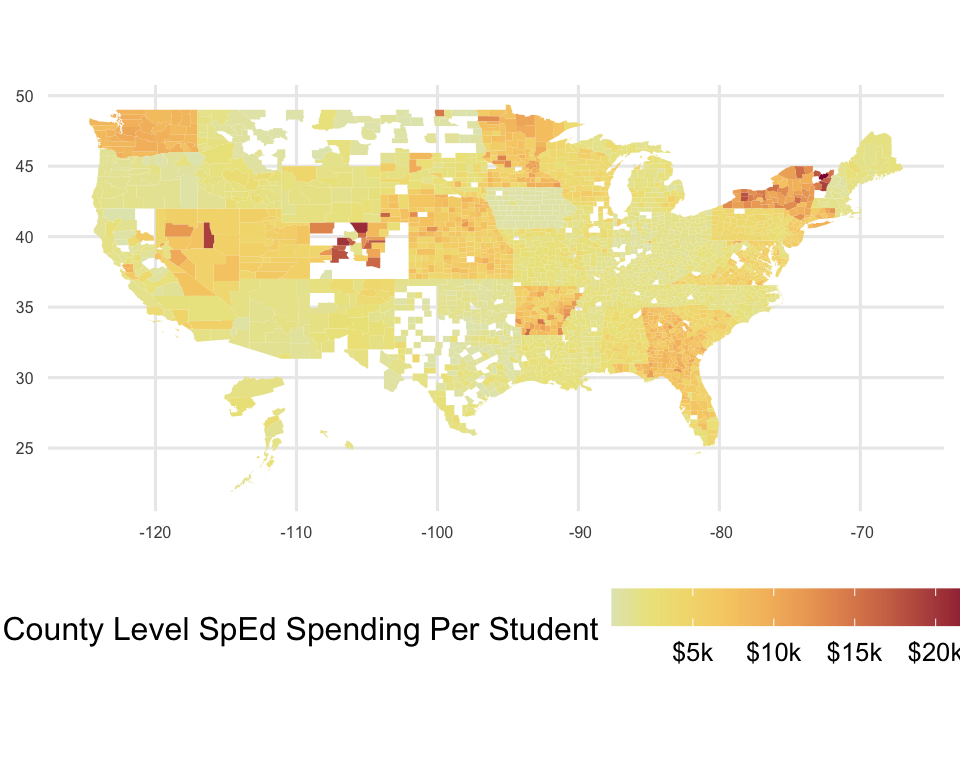
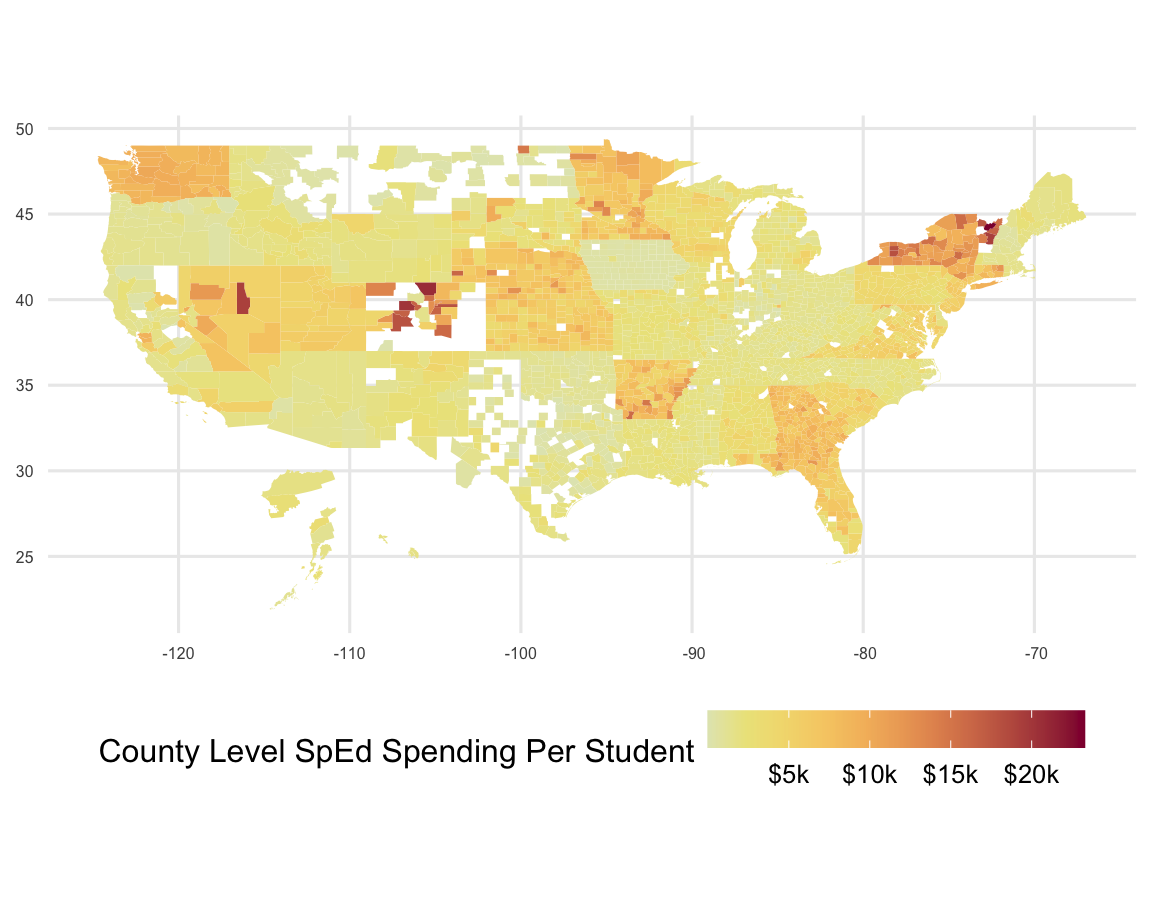
Plot size updates

diff --git a/docs/index.html b/docs/index.html
@@ -9,9 +9,9 @@
 
 
 
-<title>proposal_explorations</title>
+<title>Final Project</title>
 
-<meta property="og:title" content="proposal_explorations" />
+<meta property="og:title" content="Final Project" />
 
 <meta name='viewport' content='width=device-width, initial-scale=1.0, maximum-scale=1.0, user-scalable=no' />
 
@@ -811,9 +811,9 @@ body {
   
 </span>
 <span class="navbar-brand">
-  proposal_explorations
+  Final Project
   <span class="navbar-author">
-    Ian, Dillon, Futing &mdash; 1/19/2022
+    Ian, Dillon, Futing &mdash; 3/8/2022
     </span>
 </span>
 
@@ -2658,17 +2658,17 @@ color:white!important;
 <p>Visualization 1</p>
 <div id="old-nationwide" class="section level3">
 <h3>Old Nationwide</h3>
-<div class="knitr-options" data-fig-width="480" data-fig-height="384">
+<div class="knitr-options" data-fig-width="576" data-fig-height="460">
 
 </div>
-<p><img src="index_files/figure-html/unnamed-chunk-10-1.png" width="480" data-figure-id=fig15 /><img src="index_files/figure-html/unnamed-chunk-10-2.png" width="360" data-figure-id=fig15 /> <br> Initially, I wanted to provide more granular data about SpEd populations and spending. However, it appeared that there was a wide variation of state reporting quality.</p>
+<p><img src="index_files/figure-html/unnamed-chunk-10-1.png" width="576" data-figure-id=fig15 /><img src="index_files/figure-html/unnamed-chunk-10-2.png" width="360" data-figure-id=fig15 /> <br> Initially, I wanted to provide more granular data about SpEd populations and spending. However, it appeared that there was a wide variation of state reporting quality.</p>
 </div>
 <div id="old-oregon" class="section level3">
 <h3>Old Oregon</h3>
-<div class="knitr-options" data-fig-width="480" data-fig-height="384">
+<div class="knitr-options" data-fig-width="576" data-fig-height="460">
 
 </div>
-<p><img src="index_files/figure-html/unnamed-chunk-11-1.png" width="480" data-figure-id=fig17 /><img src="index_files/figure-html/unnamed-chunk-11-2.png" width="360" data-figure-id=fig17 /> <br> I decided to hone in on Oregon and created a series of plots that didn’t quite capture what I was hoping to.</p>
+<p><img src="index_files/figure-html/unnamed-chunk-11-1.png" width="576" data-figure-id=fig17 /><img src="index_files/figure-html/unnamed-chunk-11-2.png" width="360" data-figure-id=fig17 /> <br> I decided to hone in on Oregon and created a series of plots that didn’t quite capture what I was hoping to.</p>
 </div>
 <div id="final" class="section level3">
 <h3>Final</h3>
@@ -2696,8 +2696,8 @@ color:white!important;
 <div class="knitr-options" data-fig-width="480" data-fig-height="384">
 
 </div>
-<div id="htmlwidget-c86473a5e5a716dd93f9" style="width:480px;height:384px;" class="plotly html-widget"></div>
-<script type="application/json" data-for="htmlwidget-c86473a5e5a716dd93f9">{"x":{"visdat":{"859b78056607":["function () ","plotlyVisDat"]},"cur_data":"859b78056607","attrs":{"859b78056607":{"locationmode":"USA-states","alpha_stroke":1,"sizes":[10,100],"spans":[1,20],"z":{},"text":{},"locations":{},"color":{},"colors":"Purples","inherit":true}},"layout":{"margin":{"b":40,"l":60,"t":25,"r":10},"mapType":"geo","scene":{"zaxis":{"title":"Rate"}},"geo":{"domain":{"x":[0,1],"y":[0,1]},"scope":"usa","projection":{"type":"albers usa"},"showlakes":true,"lakecolor":"rgba(255,255,255,1)"},"hovermode":"closest","showlegend":false,"legend":{"yanchor":"top","y":0.5},"title":{"text":"<b> Students with Disability Rates <b>"},"y":0.5},"source":"A","config":{"modeBarButtonsToAdd":["hoverclosest","hovercompare"],"showSendToCloud":false},"data":[{"colorbar":{"title":"Percent of Students with Disabilities","ticklen":2,"len":0.5,"lenmode":"fraction","y":0.75,"yanchor":"top"},"colorscale":[["0","rgba(252,251,253,1)"],["0.0416666666666667","rgba(248,246,250,1)"],["0.0833333333333334","rgba(243,242,248,1)"],["0.125","rgba(239,237,245,1)"],["0.166666666666667","rgba(232,231,242,1)"],["0.208333333333333","rgba(225,224,238,1)"],["0.25","rgba(218,218,235,1)"],["0.291666666666667","rgba(208,208,230,1)"],["0.333333333333333","rgba(198,199,225,1)"],["0.375","rgba(188,189,220,1)"],["0.416666666666667","rgba(178,177,213,1)"],["0.458333333333333","rgba(168,166,207,1)"],["0.5","rgba(158,154,200,1)"],["0.541666666666667","rgba(148,144,195,1)"],["0.583333333333333","rgba(138,135,191,1)"],["0.625","rgba(128,125,186,1)"],["0.666666666666667","rgba(121,110,178,1)"],["0.708333333333333","rgba(114,96,171,1)"],["0.75","rgba(106,81,163,1)"],["0.791666666666667","rgba(99,67,156,1)"],["0.833333333333333","rgba(92,54,150,1)"],["0.875","rgba(84,39,143,1)"],["0.916666666666667","rgba(77,28,137,1)"],["0.958333333333333","rgba(70,16,131,1)"],["1","rgba(63,0,125,1)"]],"showscale":true,"locationmode":"USA-states","z":[0.0683467401698824,0.107890689695966,0.0955430286964437,0.111665491621021,0.112737006468882,0.0909209911173446,0.122667797431548,0.144320612405719,0.12778057273633,0.106739262744066,0.155391878566947,0.132068218354652,0.15730580031353,0.136615898184853,0.0884583419904425,0.186798679867987,0.0986055187115111,0.200300386667945,0.116532968108002,0.128692187167534,0.105533919899995,0.13927268707859,0.131055726687202,0.119734585849549,0.103083832335329,0.186343379409321,0.157486984313415,0.134612901837587,0.146575779729605,0.098774826877711,0.115172120696983,0.157687527961426,0.132118235905185,0.143080575652898,0.213055303717135,0.0933399209486166,0.0886075949367089,0.126336803079994,0.0970854753855694,0.0915190552871712,0.170818505338078,0.117722922129138,0.107981011719329,0.159324665243547,0.133311938382542,0.139245839477565],"text":["Alabama","Alaska","Arizona","Arkansas","California","Colorado","Connecticut","Delaware","Florida","Georgia","Illinois","Indiana","Iowa","Kansas","Louisiana","Maine","Maryland","Massachusetts","Michigan","Minnesota","Mississippi","Missouri","Montana","Nebraska","Nevada","New Hampshire","New Jersey","New Mexico","New York","North Carolina","North Dakota","Ohio","Oregon","Pennsylvania","Rhode Island","South Carolina","South Dakota","Tennessee","Texas","Utah","Vermont","Virginia","Washington","West Virginia","Wisconsin","Wyoming"],"locations":["AL","AK","AZ","AR","CA","CO","CT","DE","FL","GA","IL","IN","IA","KS","LA","ME","MD","MA","MI","MN","MS","MO","MT","NE","NV","NH","NJ","NM","NY","NC","ND","OH","OR","PA","RI","SC","SD","TN","TX","UT","VT","VA","WA","WV","WI","WY"],"type":"choropleth","marker":{"line":{"colorbar":{"title":"","ticklen":2},"cmin":0.0683467401698824,"cmax":0.213055303717135,"colorscale":[["0","rgba(252,251,253,1)"],["0.0416666666666667","rgba(248,246,250,1)"],["0.0833333333333334","rgba(243,242,248,1)"],["0.125","rgba(239,237,245,1)"],["0.166666666666667","rgba(232,231,242,1)"],["0.208333333333333","rgba(225,224,238,1)"],["0.25","rgba(218,218,235,1)"],["0.291666666666667","rgba(208,208,230,1)"],["0.333333333333333","rgba(198,199,225,1)"],["0.375","rgba(188,189,220,1)"],["0.416666666666667","rgba(178,177,213,1)"],["0.458333333333333","rgba(168,166,207,1)"],["0.5","rgba(158,154,200,1)"],["0.541666666666667","rgba(148,144,195,1)"],["0.583333333333333","rgba(138,135,191,1)"],["0.625","rgba(128,125,186,1)"],["0.666666666666667","rgba(121,110,178,1)"],["0.708333333333333","rgba(114,96,171,1)"],["0.75","rgba(106,81,163,1)"],["0.791666666666667","rgba(99,67,156,1)"],["0.833333333333333","rgba(92,54,150,1)"],["0.875","rgba(84,39,143,1)"],["0.916666666666667","rgba(77,28,137,1)"],["0.958333333333333","rgba(70,16,131,1)"],["1","rgba(63,0,125,1)"]],"showscale":false,"color":[0.0683467401698824,0.107890689695966,0.0955430286964437,0.111665491621021,0.112737006468882,0.0909209911173446,0.122667797431548,0.144320612405719,0.12778057273633,0.106739262744066,0.155391878566947,0.132068218354652,0.15730580031353,0.136615898184853,0.0884583419904425,0.186798679867987,0.0986055187115111,0.200300386667945,0.116532968108002,0.128692187167534,0.105533919899995,0.13927268707859,0.131055726687202,0.119734585849549,0.103083832335329,0.186343379409321,0.157486984313415,0.134612901837587,0.146575779729605,0.098774826877711,0.115172120696983,0.157687527961426,0.132118235905185,0.143080575652898,0.213055303717135,0.0933399209486166,0.0886075949367089,0.126336803079994,0.0970854753855694,0.0915190552871712,0.170818505338078,0.117722922129138,0.107981011719329,0.159324665243547,0.133311938382542,0.139245839477565]}},"geo":"geo","frame":null}],"highlight":{"on":"plotly_click","persistent":false,"dynamic":false,"selectize":false,"opacityDim":0.2,"selected":{"opacity":1},"debounce":0},"shinyEvents":["plotly_hover","plotly_click","plotly_selected","plotly_relayout","plotly_brushed","plotly_brushing","plotly_clickannotation","plotly_doubleclick","plotly_deselect","plotly_afterplot","plotly_sunburstclick"],"base_url":"https://plot.ly"},"evals":[],"jsHooks":[]}</script>
+<div id="htmlwidget-7f3ea2eb60dc3bca808c" style="width:480px;height:384px;" class="plotly html-widget"></div>
+<script type="application/json" data-for="htmlwidget-7f3ea2eb60dc3bca808c">{"x":{"visdat":{"a5b2de856c8":["function () ","plotlyVisDat"]},"cur_data":"a5b2de856c8","attrs":{"a5b2de856c8":{"locationmode":"USA-states","alpha_stroke":1,"sizes":[10,100],"spans":[1,20],"z":{},"text":{},"locations":{},"color":{},"colors":"Purples","inherit":true}},"layout":{"margin":{"b":40,"l":60,"t":25,"r":10},"mapType":"geo","scene":{"zaxis":{"title":"Rate"}},"geo":{"domain":{"x":[0,1],"y":[0,1]},"scope":"usa","projection":{"type":"albers usa"},"showlakes":true,"lakecolor":"rgba(255,255,255,1)"},"hovermode":"closest","showlegend":false,"legend":{"yanchor":"top","y":0.5},"title":{"text":"<b> Students with Disability Rates <b>"},"y":0.5},"source":"A","config":{"modeBarButtonsToAdd":["hoverclosest","hovercompare"],"showSendToCloud":false},"data":[{"colorbar":{"title":"Percent of Students with Disabilities","ticklen":2,"len":0.5,"lenmode":"fraction","y":0.75,"yanchor":"top"},"colorscale":[["0","rgba(252,251,253,1)"],["0.0416666666666667","rgba(248,246,250,1)"],["0.0833333333333334","rgba(243,242,248,1)"],["0.125","rgba(239,237,245,1)"],["0.166666666666667","rgba(232,231,242,1)"],["0.208333333333333","rgba(225,224,238,1)"],["0.25","rgba(218,218,235,1)"],["0.291666666666667","rgba(208,208,230,1)"],["0.333333333333333","rgba(198,199,225,1)"],["0.375","rgba(188,189,220,1)"],["0.416666666666667","rgba(178,177,213,1)"],["0.458333333333333","rgba(168,166,207,1)"],["0.5","rgba(158,154,200,1)"],["0.541666666666667","rgba(148,144,195,1)"],["0.583333333333333","rgba(138,135,191,1)"],["0.625","rgba(128,125,186,1)"],["0.666666666666667","rgba(121,110,178,1)"],["0.708333333333333","rgba(114,96,171,1)"],["0.75","rgba(106,81,163,1)"],["0.791666666666667","rgba(99,67,156,1)"],["0.833333333333333","rgba(92,54,150,1)"],["0.875","rgba(84,39,143,1)"],["0.916666666666667","rgba(77,28,137,1)"],["0.958333333333333","rgba(70,16,131,1)"],["1","rgba(63,0,125,1)"]],"showscale":true,"locationmode":"USA-states","z":[0.0683467401698824,0.107890689695966,0.0955430286964437,0.111665491621021,0.112737006468882,0.0909209911173446,0.122667797431548,0.144320612405719,0.12778057273633,0.106739262744066,0.155391878566947,0.132068218354652,0.15730580031353,0.136615898184853,0.0884583419904425,0.186798679867987,0.0986055187115111,0.200300386667945,0.116532968108002,0.128692187167534,0.105533919899995,0.13927268707859,0.131055726687202,0.119734585849549,0.103083832335329,0.186343379409321,0.157486984313415,0.134612901837587,0.146575779729605,0.098774826877711,0.115172120696983,0.157687527961426,0.132118235905185,0.143080575652898,0.213055303717135,0.0933399209486166,0.0886075949367089,0.126336803079994,0.0970854753855694,0.0915190552871712,0.170818505338078,0.117722922129138,0.107981011719329,0.159324665243547,0.133311938382542,0.139245839477565],"text":["Alabama","Alaska","Arizona","Arkansas","California","Colorado","Connecticut","Delaware","Florida","Georgia","Illinois","Indiana","Iowa","Kansas","Louisiana","Maine","Maryland","Massachusetts","Michigan","Minnesota","Mississippi","Missouri","Montana","Nebraska","Nevada","New Hampshire","New Jersey","New Mexico","New York","North Carolina","North Dakota","Ohio","Oregon","Pennsylvania","Rhode Island","South Carolina","South Dakota","Tennessee","Texas","Utah","Vermont","Virginia","Washington","West Virginia","Wisconsin","Wyoming"],"locations":["AL","AK","AZ","AR","CA","CO","CT","DE","FL","GA","IL","IN","IA","KS","LA","ME","MD","MA","MI","MN","MS","MO","MT","NE","NV","NH","NJ","NM","NY","NC","ND","OH","OR","PA","RI","SC","SD","TN","TX","UT","VT","VA","WA","WV","WI","WY"],"type":"choropleth","marker":{"line":{"colorbar":{"title":"","ticklen":2},"cmin":0.0683467401698824,"cmax":0.213055303717135,"colorscale":[["0","rgba(252,251,253,1)"],["0.0416666666666667","rgba(248,246,250,1)"],["0.0833333333333334","rgba(243,242,248,1)"],["0.125","rgba(239,237,245,1)"],["0.166666666666667","rgba(232,231,242,1)"],["0.208333333333333","rgba(225,224,238,1)"],["0.25","rgba(218,218,235,1)"],["0.291666666666667","rgba(208,208,230,1)"],["0.333333333333333","rgba(198,199,225,1)"],["0.375","rgba(188,189,220,1)"],["0.416666666666667","rgba(178,177,213,1)"],["0.458333333333333","rgba(168,166,207,1)"],["0.5","rgba(158,154,200,1)"],["0.541666666666667","rgba(148,144,195,1)"],["0.583333333333333","rgba(138,135,191,1)"],["0.625","rgba(128,125,186,1)"],["0.666666666666667","rgba(121,110,178,1)"],["0.708333333333333","rgba(114,96,171,1)"],["0.75","rgba(106,81,163,1)"],["0.791666666666667","rgba(99,67,156,1)"],["0.833333333333333","rgba(92,54,150,1)"],["0.875","rgba(84,39,143,1)"],["0.916666666666667","rgba(77,28,137,1)"],["0.958333333333333","rgba(70,16,131,1)"],["1","rgba(63,0,125,1)"]],"showscale":false,"color":[0.0683467401698824,0.107890689695966,0.0955430286964437,0.111665491621021,0.112737006468882,0.0909209911173446,0.122667797431548,0.144320612405719,0.12778057273633,0.106739262744066,0.155391878566947,0.132068218354652,0.15730580031353,0.136615898184853,0.0884583419904425,0.186798679867987,0.0986055187115111,0.200300386667945,0.116532968108002,0.128692187167534,0.105533919899995,0.13927268707859,0.131055726687202,0.119734585849549,0.103083832335329,0.186343379409321,0.157486984313415,0.134612901837587,0.146575779729605,0.098774826877711,0.115172120696983,0.157687527961426,0.132118235905185,0.143080575652898,0.213055303717135,0.0933399209486166,0.0886075949367089,0.126336803079994,0.0970854753855694,0.0915190552871712,0.170818505338078,0.117722922129138,0.107981011719329,0.159324665243547,0.133311938382542,0.139245839477565]}},"geo":"geo","frame":null}],"highlight":{"on":"plotly_click","persistent":false,"dynamic":false,"selectize":false,"opacityDim":0.2,"selected":{"opacity":1},"debounce":0},"shinyEvents":["plotly_hover","plotly_click","plotly_selected","plotly_relayout","plotly_brushed","plotly_brushing","plotly_clickannotation","plotly_doubleclick","plotly_deselect","plotly_afterplot","plotly_sunburstclick"],"base_url":"https://plot.ly"},"evals":[],"jsHooks":[]}</script>
 <p><br> I decided to use interactive maps to visualize those data, so I can at least also get the name of each state and the exact value in this heatmap for each state.</p>
 </div>
 </div>
@@ -2716,8 +2716,8 @@ color:white!important;
 <div class="knitr-options" data-fig-width="480" data-fig-height="384">
 
 </div>
-<div id="htmlwidget-173ecfb415a5f5833c1f" style="width:480px;height:384px;" class="plotly html-widget"></div>
-<script type="application/json" data-for="htmlwidget-173ecfb415a5f5833c1f">{"x":{"visdat":{"859b2a6d9320":["function () ","plotlyVisDat"]},"cur_data":"859b2a6d9320","attrs":{"859b2a6d9320":{"locationmode":"USA-states","alpha_stroke":1,"sizes":[10,100],"spans":[1,20],"z":{},"text":{},"locations":{},"color":{},"colors":"Purples","inherit":true}},"layout":{"margin":{"b":40,"l":60,"t":25,"r":10},"mapType":"geo","scene":{"zaxis":{"title":"Revenue"}},"geo":{"domain":{"x":[0,1],"y":[0,1]},"scope":"usa","projection":{"type":"albers usa"},"showlakes":true,"lakecolor":"rgba(255,255,255,1)"},"hovermode":"closest","showlegend":false,"legend":{"yanchor":"top","y":0.5},"title":{"text":"<b> SpEd Revenue per Student <b>"},"y":0.5},"source":"A","config":{"modeBarButtonsToAdd":["hoverclosest","hovercompare"],"showSendToCloud":false},"data":[{"colorbar":{"title":"Avg Special Ed Revenue per Student","ticklen":2,"len":0.5,"lenmode":"fraction","y":0.75,"yanchor":"top","orientation":"h"},"colorscale":[["0","rgba(252,251,253,1)"],["0.0416666666666667","rgba(248,246,250,1)"],["0.0833333333333333","rgba(243,242,248,1)"],["0.125","rgba(239,237,245,1)"],["0.166666666666667","rgba(232,231,242,1)"],["0.208333333333333","rgba(225,224,238,1)"],["0.25","rgba(218,218,235,1)"],["0.291666666666667","rgba(208,208,230,1)"],["0.333333333333333","rgba(198,199,225,1)"],["0.375","rgba(188,189,220,1)"],["0.416666666666667","rgba(178,177,213,1)"],["0.458333333333333","rgba(168,166,207,1)"],["0.5","rgba(158,154,200,1)"],["0.541666666666667","rgba(148,144,195,1)"],["0.583333333333333","rgba(138,135,191,1)"],["0.625","rgba(128,125,186,1)"],["0.666666666666667","rgba(121,110,178,1)"],["0.708333333333333","rgba(114,96,171,1)"],["0.75","rgba(106,81,163,1)"],["0.791666666666667","rgba(99,67,156,1)"],["0.833333333333333","rgba(92,54,150,1)"],["0.875","rgba(84,39,143,1)"],["0.916666666666667","rgba(77,28,137,1)"],["0.958333333333333","rgba(70,16,131,1)"],["1","rgba(63,0,125,1)"]],"showscale":true,"locationmode":"USA-states","z":[41067.9012345679,29996.7105263158,17241.8519137556,104110.247693055,53424.0723137484,55953.7227478404,125348.640987654,27153.6661466459,75394.5264214305,113334.412081985,28136.1888279973,21742.2598571051,7950.17182130584,85251.3744654856,42319.4351145038,18176.1736496719,87311.064404744,16760.4499042757,41876.006212223,156583.345859011,30372.2095671982,37109.9201058201,1762.82051282051,110527.397260274,65180.9468486785,9578.43372517227,66043.8861240588,27466.1125319693,84020.2272567615,30901.7719568567,37907.7490774908,16731.9208120547,16406.3609721229,52464.9260773828,14958.2961702128,83273.1314842261,162382.059800664,24513.967268623,27823.2989656735,110259.530791789,81302.0833333333,67604.2549569941,167336.5846957,22181.790499391,60374.5787193067,24118.0030257186],"text":["Alabama","Alaska","Arizona","Arkansas","California","Colorado","Connecticut","Delaware","Florida","Georgia","Illinois","Indiana","Iowa","Kansas","Louisiana","Maine","Maryland","Massachusetts","Michigan","Minnesota","Mississippi","Missouri","Montana","Nebraska","Nevada","New Hampshire","New Jersey","New Mexico","New York","North Carolina","North Dakota","Ohio","Oregon","Pennsylvania","Rhode Island","South Carolina","South Dakota","Tennessee","Texas","Utah","Vermont","Virginia","Washington","West Virginia","Wisconsin","Wyoming"],"locations":["AL","AK","AZ","AR","CA","CO","CT","DE","FL","GA","IL","IN","IA","KS","LA","ME","MD","MA","MI","MN","MS","MO","MT","NE","NV","NH","NJ","NM","NY","NC","ND","OH","OR","PA","RI","SC","SD","TN","TX","UT","VT","VA","WA","WV","WI","WY"],"type":"choropleth","marker":{"line":{"colorbar":{"title":"","ticklen":2},"cmin":1762.82051282051,"cmax":167336.5846957,"colorscale":[["0","rgba(252,251,253,1)"],["0.0416666666666667","rgba(248,246,250,1)"],["0.0833333333333333","rgba(243,242,248,1)"],["0.125","rgba(239,237,245,1)"],["0.166666666666667","rgba(232,231,242,1)"],["0.208333333333333","rgba(225,224,238,1)"],["0.25","rgba(218,218,235,1)"],["0.291666666666667","rgba(208,208,230,1)"],["0.333333333333333","rgba(198,199,225,1)"],["0.375","rgba(188,189,220,1)"],["0.416666666666667","rgba(178,177,213,1)"],["0.458333333333333","rgba(168,166,207,1)"],["0.5","rgba(158,154,200,1)"],["0.541666666666667","rgba(148,144,195,1)"],["0.583333333333333","rgba(138,135,191,1)"],["0.625","rgba(128,125,186,1)"],["0.666666666666667","rgba(121,110,178,1)"],["0.708333333333333","rgba(114,96,171,1)"],["0.75","rgba(106,81,163,1)"],["0.791666666666667","rgba(99,67,156,1)"],["0.833333333333333","rgba(92,54,150,1)"],["0.875","rgba(84,39,143,1)"],["0.916666666666667","rgba(77,28,137,1)"],["0.958333333333333","rgba(70,16,131,1)"],["1","rgba(63,0,125,1)"]],"showscale":false,"color":[41067.9012345679,29996.7105263158,17241.8519137556,104110.247693055,53424.0723137484,55953.7227478404,125348.640987654,27153.6661466459,75394.5264214305,113334.412081985,28136.1888279973,21742.2598571051,7950.17182130584,85251.3744654856,42319.4351145038,18176.1736496719,87311.064404744,16760.4499042757,41876.006212223,156583.345859011,30372.2095671982,37109.9201058201,1762.82051282051,110527.397260274,65180.9468486785,9578.43372517227,66043.8861240588,27466.1125319693,84020.2272567615,30901.7719568567,37907.7490774908,16731.9208120547,16406.3609721229,52464.9260773828,14958.2961702128,83273.1314842261,162382.059800664,24513.967268623,27823.2989656735,110259.530791789,81302.0833333333,67604.2549569941,167336.5846957,22181.790499391,60374.5787193067,24118.0030257186]}},"geo":"geo","frame":null}],"highlight":{"on":"plotly_click","persistent":false,"dynamic":false,"selectize":false,"opacityDim":0.2,"selected":{"opacity":1},"debounce":0},"shinyEvents":["plotly_hover","plotly_click","plotly_selected","plotly_relayout","plotly_brushed","plotly_brushing","plotly_clickannotation","plotly_doubleclick","plotly_deselect","plotly_afterplot","plotly_sunburstclick"],"base_url":"https://plot.ly"},"evals":[],"jsHooks":[]}</script>
+<div id="htmlwidget-be3a69f1ed73df9cca27" style="width:480px;height:384px;" class="plotly html-widget"></div>
+<script type="application/json" data-for="htmlwidget-be3a69f1ed73df9cca27">{"x":{"visdat":{"a5b70997c03":["function () ","plotlyVisDat"]},"cur_data":"a5b70997c03","attrs":{"a5b70997c03":{"locationmode":"USA-states","alpha_stroke":1,"sizes":[10,100],"spans":[1,20],"z":{},"text":{},"locations":{},"color":{},"colors":"Purples","inherit":true}},"layout":{"margin":{"b":40,"l":60,"t":25,"r":10},"mapType":"geo","scene":{"zaxis":{"title":"Revenue"}},"geo":{"domain":{"x":[0,1],"y":[0,1]},"scope":"usa","projection":{"type":"albers usa"},"showlakes":true,"lakecolor":"rgba(255,255,255,1)"},"hovermode":"closest","showlegend":false,"legend":{"yanchor":"top","y":0.5},"title":{"text":"<b> SpEd Revenue per Student <b>"},"y":0.5},"source":"A","config":{"modeBarButtonsToAdd":["hoverclosest","hovercompare"],"showSendToCloud":false},"data":[{"colorbar":{"title":"Avg Special Ed Revenue per Student","ticklen":2,"len":0.5,"lenmode":"fraction","y":0.75,"yanchor":"top","orientation":"h"},"colorscale":[["0","rgba(252,251,253,1)"],["0.0416666666666667","rgba(248,246,250,1)"],["0.0833333333333333","rgba(243,242,248,1)"],["0.125","rgba(239,237,245,1)"],["0.166666666666667","rgba(232,231,242,1)"],["0.208333333333333","rgba(225,224,238,1)"],["0.25","rgba(218,218,235,1)"],["0.291666666666667","rgba(208,208,230,1)"],["0.333333333333333","rgba(198,199,225,1)"],["0.375","rgba(188,189,220,1)"],["0.416666666666667","rgba(178,177,213,1)"],["0.458333333333333","rgba(168,166,207,1)"],["0.5","rgba(158,154,200,1)"],["0.541666666666667","rgba(148,144,195,1)"],["0.583333333333333","rgba(138,135,191,1)"],["0.625","rgba(128,125,186,1)"],["0.666666666666667","rgba(121,110,178,1)"],["0.708333333333333","rgba(114,96,171,1)"],["0.75","rgba(106,81,163,1)"],["0.791666666666667","rgba(99,67,156,1)"],["0.833333333333333","rgba(92,54,150,1)"],["0.875","rgba(84,39,143,1)"],["0.916666666666667","rgba(77,28,137,1)"],["0.958333333333333","rgba(70,16,131,1)"],["1","rgba(63,0,125,1)"]],"showscale":true,"locationmode":"USA-states","z":[41067.9012345679,29996.7105263158,17241.8519137556,104110.247693055,53424.0723137484,55953.7227478404,125348.640987654,27153.6661466459,75394.5264214305,113334.412081985,28136.1888279973,21742.2598571051,7950.17182130584,85251.3744654856,42319.4351145038,18176.1736496719,87311.064404744,16760.4499042757,41876.006212223,156583.345859011,30372.2095671982,37109.9201058201,1762.82051282051,110527.397260274,65180.9468486785,9578.43372517227,66043.8861240588,27466.1125319693,84020.2272567615,30901.7719568567,37907.7490774908,16731.9208120547,16406.3609721229,52464.9260773828,14958.2961702128,83273.1314842261,162382.059800664,24513.967268623,27823.2989656735,110259.530791789,81302.0833333333,67604.2549569941,167336.5846957,22181.790499391,60374.5787193067,24118.0030257186],"text":["Alabama","Alaska","Arizona","Arkansas","California","Colorado","Connecticut","Delaware","Florida","Georgia","Illinois","Indiana","Iowa","Kansas","Louisiana","Maine","Maryland","Massachusetts","Michigan","Minnesota","Mississippi","Missouri","Montana","Nebraska","Nevada","New Hampshire","New Jersey","New Mexico","New York","North Carolina","North Dakota","Ohio","Oregon","Pennsylvania","Rhode Island","South Carolina","South Dakota","Tennessee","Texas","Utah","Vermont","Virginia","Washington","West Virginia","Wisconsin","Wyoming"],"locations":["AL","AK","AZ","AR","CA","CO","CT","DE","FL","GA","IL","IN","IA","KS","LA","ME","MD","MA","MI","MN","MS","MO","MT","NE","NV","NH","NJ","NM","NY","NC","ND","OH","OR","PA","RI","SC","SD","TN","TX","UT","VT","VA","WA","WV","WI","WY"],"type":"choropleth","marker":{"line":{"colorbar":{"title":"","ticklen":2},"cmin":1762.82051282051,"cmax":167336.5846957,"colorscale":[["0","rgba(252,251,253,1)"],["0.0416666666666667","rgba(248,246,250,1)"],["0.0833333333333333","rgba(243,242,248,1)"],["0.125","rgba(239,237,245,1)"],["0.166666666666667","rgba(232,231,242,1)"],["0.208333333333333","rgba(225,224,238,1)"],["0.25","rgba(218,218,235,1)"],["0.291666666666667","rgba(208,208,230,1)"],["0.333333333333333","rgba(198,199,225,1)"],["0.375","rgba(188,189,220,1)"],["0.416666666666667","rgba(178,177,213,1)"],["0.458333333333333","rgba(168,166,207,1)"],["0.5","rgba(158,154,200,1)"],["0.541666666666667","rgba(148,144,195,1)"],["0.583333333333333","rgba(138,135,191,1)"],["0.625","rgba(128,125,186,1)"],["0.666666666666667","rgba(121,110,178,1)"],["0.708333333333333","rgba(114,96,171,1)"],["0.75","rgba(106,81,163,1)"],["0.791666666666667","rgba(99,67,156,1)"],["0.833333333333333","rgba(92,54,150,1)"],["0.875","rgba(84,39,143,1)"],["0.916666666666667","rgba(77,28,137,1)"],["0.958333333333333","rgba(70,16,131,1)"],["1","rgba(63,0,125,1)"]],"showscale":false,"color":[41067.9012345679,29996.7105263158,17241.8519137556,104110.247693055,53424.0723137484,55953.7227478404,125348.640987654,27153.6661466459,75394.5264214305,113334.412081985,28136.1888279973,21742.2598571051,7950.17182130584,85251.3744654856,42319.4351145038,18176.1736496719,87311.064404744,16760.4499042757,41876.006212223,156583.345859011,30372.2095671982,37109.9201058201,1762.82051282051,110527.397260274,65180.9468486785,9578.43372517227,66043.8861240588,27466.1125319693,84020.2272567615,30901.7719568567,37907.7490774908,16731.9208120547,16406.3609721229,52464.9260773828,14958.2961702128,83273.1314842261,162382.059800664,24513.967268623,27823.2989656735,110259.530791789,81302.0833333333,67604.2549569941,167336.5846957,22181.790499391,60374.5787193067,24118.0030257186]}},"geo":"geo","frame":null}],"highlight":{"on":"plotly_click","persistent":false,"dynamic":false,"selectize":false,"opacityDim":0.2,"selected":{"opacity":1},"debounce":0},"shinyEvents":["plotly_hover","plotly_click","plotly_selected","plotly_relayout","plotly_brushed","plotly_brushing","plotly_clickannotation","plotly_doubleclick","plotly_deselect","plotly_afterplot","plotly_sunburstclick"],"base_url":"https://plot.ly"},"evals":[],"jsHooks":[]}</script>
 <p><br> Washington State has the highest average revenue in SpEd.</p>
 </div>
 </div>
@@ -2736,8 +2736,8 @@ color:white!important;
 <div class="knitr-options" data-fig-width="480" data-fig-height="384">
 
 </div>
-<div id="htmlwidget-ed93daafe9c4f0e9eb37" style="width:480px;height:384px;" class="plotly html-widget"></div>
-<script type="application/json" data-for="htmlwidget-ed93daafe9c4f0e9eb37">{"x":{"visdat":{"859b7fd62fa2":["function () ","plotlyVisDat"]},"cur_data":"859b7fd62fa2","attrs":{"859b7fd62fa2":{"locationmode":"USA-states","alpha_stroke":1,"sizes":[10,100],"spans":[1,20],"z":{},"text":{},"locations":{},"color":{},"colors":"Purples","inherit":true}},"layout":{"margin":{"b":40,"l":60,"t":25,"r":10},"mapType":"geo","scene":{"zaxis":{"title":"(-Difference)"}},"geo":{"domain":{"x":[0,1],"y":[0,1]},"scope":"usa","projection":{"type":"albers usa"},"showlakes":true,"lakecolor":"rgba(255,255,255,1)"},"hovermode":"closest","showlegend":false,"legend":{"yanchor":"top","y":0.5},"title":{"text":"<b> Differences in Non-CWD/CWD Grad Rates <b>"},"y":0.5},"source":"A","config":{"modeBarButtonsToAdd":["hoverclosest","hovercompare"],"showSendToCloud":false},"data":[{"colorbar":{"title":"Differences in Grad Rates<br />(No Disabilties - Disabilities)","ticklen":2,"len":0.5,"lenmode":"fraction","y":0.75,"yanchor":"top","orientation":"h"},"colorscale":[["0","rgba(252,251,253,1)"],["0.0416666666666667","rgba(248,246,250,1)"],["0.0833333333333333","rgba(243,242,248,1)"],["0.125","rgba(239,237,245,1)"],["0.166666666666667","rgba(232,231,242,1)"],["0.208333333333333","rgba(225,224,238,1)"],["0.25","rgba(218,218,235,1)"],["0.291666666666667","rgba(208,208,230,1)"],["0.333333333333333","rgba(198,199,225,1)"],["0.375","rgba(188,189,220,1)"],["0.416666666666667","rgba(178,177,213,1)"],["0.458333333333333","rgba(168,166,207,1)"],["0.5","rgba(158,154,200,1)"],["0.541666666666667","rgba(148,144,195,1)"],["0.583333333333333","rgba(138,135,191,1)"],["0.625","rgba(128,125,186,1)"],["0.666666666666667","rgba(121,110,178,1)"],["0.708333333333333","rgba(114,96,171,1)"],["0.75","rgba(106,81,163,1)"],["0.791666666666667","rgba(99,67,156,1)"],["0.833333333333333","rgba(92,54,150,1)"],["0.875","rgba(84,39,143,1)"],["0.916666666666667","rgba(77,28,137,1)"],["0.958333333333333","rgba(70,16,131,1)"],["1","rgba(63,0,125,1)"]],"showscale":true,"locationmode":"USA-states","z":[0.371882562119742,0.326133625217234,0.147715088757695,0.0926859213044254,0.194304430650478,0.239303132913605,0.246527194846576,0.260110675457146,0.298656909849577,0.413599275958984,0.229014662124855,0.262539119288122,0.266800380433908,0.134044531961358,0.451103002357596,0.229797385224568,0.292140752412867,0.242244519551922,0.237036270404873,0.273566056185983,0.540409917234347,0.169443635624562,0.173661947632702,0.239031461379529,0.426649294718111,0.198709285818252,0.135818670747174,0.175820566594922,0.347501067384749,0.233892526761272,0.253257405772905,0.160129349681849,0.302930694316864,0.124904574245585,0.2350393347387,0.379606912768357,0.259648394241418,0.199748251342631,0.131613996741083,0.193329966169534,0.267514641452074,0.378730392886979,0.244878459266486,0.228493454863278,0.259247930460433,0.303985954771209],"text":["Alabama","Alaska","Arizona","Arkansas","California","Colorado","Connecticut","Delaware","Florida","Georgia","Illinois","Indiana","Iowa","Kansas","Louisiana","Maine","Maryland","Massachusetts","Michigan","Minnesota","Mississippi","Missouri","Montana","Nebraska","Nevada","New Hampshire","New Jersey","New Mexico","New York","North Carolina","North Dakota","Ohio","Oregon","Pennsylvania","Rhode Island","South Carolina","South Dakota","Tennessee","Texas","Utah","Vermont","Virginia","Washington","West Virginia","Wisconsin","Wyoming"],"locations":["AL","AK","AZ","AR","CA","CO","CT","DE","FL","GA","IL","IN","IA","KS","LA","ME","MD","MA","MI","MN","MS","MO","MT","NE","NV","NH","NJ","NM","NY","NC","ND","OH","OR","PA","RI","SC","SD","TN","TX","UT","VT","VA","WA","WV","WI","WY"],"type":"choropleth","marker":{"line":{"colorbar":{"title":"","ticklen":2},"cmin":0.0926859213044254,"cmax":0.540409917234347,"colorscale":[["0","rgba(252,251,253,1)"],["0.0416666666666667","rgba(248,246,250,1)"],["0.0833333333333333","rgba(243,242,248,1)"],["0.125","rgba(239,237,245,1)"],["0.166666666666667","rgba(232,231,242,1)"],["0.208333333333333","rgba(225,224,238,1)"],["0.25","rgba(218,218,235,1)"],["0.291666666666667","rgba(208,208,230,1)"],["0.333333333333333","rgba(198,199,225,1)"],["0.375","rgba(188,189,220,1)"],["0.416666666666667","rgba(178,177,213,1)"],["0.458333333333333","rgba(168,166,207,1)"],["0.5","rgba(158,154,200,1)"],["0.541666666666667","rgba(148,144,195,1)"],["0.583333333333333","rgba(138,135,191,1)"],["0.625","rgba(128,125,186,1)"],["0.666666666666667","rgba(121,110,178,1)"],["0.708333333333333","rgba(114,96,171,1)"],["0.75","rgba(106,81,163,1)"],["0.791666666666667","rgba(99,67,156,1)"],["0.833333333333333","rgba(92,54,150,1)"],["0.875","rgba(84,39,143,1)"],["0.916666666666667","rgba(77,28,137,1)"],["0.958333333333333","rgba(70,16,131,1)"],["1","rgba(63,0,125,1)"]],"showscale":false,"color":[0.371882562119742,0.326133625217234,0.147715088757695,0.0926859213044254,0.194304430650478,0.239303132913605,0.246527194846576,0.260110675457146,0.298656909849577,0.413599275958984,0.229014662124855,0.262539119288122,0.266800380433908,0.134044531961358,0.451103002357596,0.229797385224568,0.292140752412867,0.242244519551922,0.237036270404873,0.273566056185983,0.540409917234347,0.169443635624562,0.173661947632702,0.239031461379529,0.426649294718111,0.198709285818252,0.135818670747174,0.175820566594922,0.347501067384749,0.233892526761272,0.253257405772905,0.160129349681849,0.302930694316864,0.124904574245585,0.2350393347387,0.379606912768357,0.259648394241418,0.199748251342631,0.131613996741083,0.193329966169534,0.267514641452074,0.378730392886979,0.244878459266486,0.228493454863278,0.259247930460433,0.303985954771209]}},"geo":"geo","frame":null}],"highlight":{"on":"plotly_click","persistent":false,"dynamic":false,"selectize":false,"opacityDim":0.2,"selected":{"opacity":1},"debounce":0},"shinyEvents":["plotly_hover","plotly_click","plotly_selected","plotly_relayout","plotly_brushed","plotly_brushing","plotly_clickannotation","plotly_doubleclick","plotly_deselect","plotly_afterplot","plotly_sunburstclick"],"base_url":"https://plot.ly"},"evals":[],"jsHooks":[]}</script>
+<div id="htmlwidget-12a471ded7ec565309aa" style="width:480px;height:384px;" class="plotly html-widget"></div>
+<script type="application/json" data-for="htmlwidget-12a471ded7ec565309aa">{"x":{"visdat":{"a5b6c9ce2b5":["function () ","plotlyVisDat"]},"cur_data":"a5b6c9ce2b5","attrs":{"a5b6c9ce2b5":{"locationmode":"USA-states","alpha_stroke":1,"sizes":[10,100],"spans":[1,20],"z":{},"text":{},"locations":{},"color":{},"colors":"Purples","inherit":true}},"layout":{"margin":{"b":40,"l":60,"t":25,"r":10},"mapType":"geo","scene":{"zaxis":{"title":"(-Difference)"}},"geo":{"domain":{"x":[0,1],"y":[0,1]},"scope":"usa","projection":{"type":"albers usa"},"showlakes":true,"lakecolor":"rgba(255,255,255,1)"},"hovermode":"closest","showlegend":false,"legend":{"yanchor":"top","y":0.5},"title":{"text":"<b> Differences in Non-CWD/CWD Grad Rates <b>"},"y":0.5},"source":"A","config":{"modeBarButtonsToAdd":["hoverclosest","hovercompare"],"showSendToCloud":false},"data":[{"colorbar":{"title":"Differences in Grad Rates<br />(No Disabilties - Disabilities)","ticklen":2,"len":0.5,"lenmode":"fraction","y":0.75,"yanchor":"top","orientation":"h"},"colorscale":[["0","rgba(252,251,253,1)"],["0.0416666666666667","rgba(248,246,250,1)"],["0.0833333333333333","rgba(243,242,248,1)"],["0.125","rgba(239,237,245,1)"],["0.166666666666667","rgba(232,231,242,1)"],["0.208333333333333","rgba(225,224,238,1)"],["0.25","rgba(218,218,235,1)"],["0.291666666666667","rgba(208,208,230,1)"],["0.333333333333333","rgba(198,199,225,1)"],["0.375","rgba(188,189,220,1)"],["0.416666666666667","rgba(178,177,213,1)"],["0.458333333333333","rgba(168,166,207,1)"],["0.5","rgba(158,154,200,1)"],["0.541666666666667","rgba(148,144,195,1)"],["0.583333333333333","rgba(138,135,191,1)"],["0.625","rgba(128,125,186,1)"],["0.666666666666667","rgba(121,110,178,1)"],["0.708333333333333","rgba(114,96,171,1)"],["0.75","rgba(106,81,163,1)"],["0.791666666666667","rgba(99,67,156,1)"],["0.833333333333333","rgba(92,54,150,1)"],["0.875","rgba(84,39,143,1)"],["0.916666666666667","rgba(77,28,137,1)"],["0.958333333333333","rgba(70,16,131,1)"],["1","rgba(63,0,125,1)"]],"showscale":true,"locationmode":"USA-states","z":[0.371882562119742,0.326133625217234,0.147715088757695,0.0926859213044254,0.194304430650478,0.239303132913605,0.246527194846576,0.260110675457146,0.298656909849577,0.413599275958984,0.229014662124855,0.262539119288122,0.266800380433908,0.134044531961358,0.451103002357596,0.229797385224568,0.292140752412867,0.242244519551922,0.237036270404873,0.273566056185983,0.540409917234347,0.169443635624562,0.173661947632702,0.239031461379529,0.426649294718111,0.198709285818252,0.135818670747174,0.175820566594922,0.347501067384749,0.233892526761272,0.253257405772905,0.160129349681849,0.302930694316864,0.124904574245585,0.2350393347387,0.379606912768357,0.259648394241418,0.199748251342631,0.131613996741083,0.193329966169534,0.267514641452074,0.378730392886979,0.244878459266486,0.228493454863278,0.259247930460433,0.303985954771209],"text":["Alabama","Alaska","Arizona","Arkansas","California","Colorado","Connecticut","Delaware","Florida","Georgia","Illinois","Indiana","Iowa","Kansas","Louisiana","Maine","Maryland","Massachusetts","Michigan","Minnesota","Mississippi","Missouri","Montana","Nebraska","Nevada","New Hampshire","New Jersey","New Mexico","New York","North Carolina","North Dakota","Ohio","Oregon","Pennsylvania","Rhode Island","South Carolina","South Dakota","Tennessee","Texas","Utah","Vermont","Virginia","Washington","West Virginia","Wisconsin","Wyoming"],"locations":["AL","AK","AZ","AR","CA","CO","CT","DE","FL","GA","IL","IN","IA","KS","LA","ME","MD","MA","MI","MN","MS","MO","MT","NE","NV","NH","NJ","NM","NY","NC","ND","OH","OR","PA","RI","SC","SD","TN","TX","UT","VT","VA","WA","WV","WI","WY"],"type":"choropleth","marker":{"line":{"colorbar":{"title":"","ticklen":2},"cmin":0.0926859213044254,"cmax":0.540409917234347,"colorscale":[["0","rgba(252,251,253,1)"],["0.0416666666666667","rgba(248,246,250,1)"],["0.0833333333333333","rgba(243,242,248,1)"],["0.125","rgba(239,237,245,1)"],["0.166666666666667","rgba(232,231,242,1)"],["0.208333333333333","rgba(225,224,238,1)"],["0.25","rgba(218,218,235,1)"],["0.291666666666667","rgba(208,208,230,1)"],["0.333333333333333","rgba(198,199,225,1)"],["0.375","rgba(188,189,220,1)"],["0.416666666666667","rgba(178,177,213,1)"],["0.458333333333333","rgba(168,166,207,1)"],["0.5","rgba(158,154,200,1)"],["0.541666666666667","rgba(148,144,195,1)"],["0.583333333333333","rgba(138,135,191,1)"],["0.625","rgba(128,125,186,1)"],["0.666666666666667","rgba(121,110,178,1)"],["0.708333333333333","rgba(114,96,171,1)"],["0.75","rgba(106,81,163,1)"],["0.791666666666667","rgba(99,67,156,1)"],["0.833333333333333","rgba(92,54,150,1)"],["0.875","rgba(84,39,143,1)"],["0.916666666666667","rgba(77,28,137,1)"],["0.958333333333333","rgba(70,16,131,1)"],["1","rgba(63,0,125,1)"]],"showscale":false,"color":[0.371882562119742,0.326133625217234,0.147715088757695,0.0926859213044254,0.194304430650478,0.239303132913605,0.246527194846576,0.260110675457146,0.298656909849577,0.413599275958984,0.229014662124855,0.262539119288122,0.266800380433908,0.134044531961358,0.451103002357596,0.229797385224568,0.292140752412867,0.242244519551922,0.237036270404873,0.273566056185983,0.540409917234347,0.169443635624562,0.173661947632702,0.239031461379529,0.426649294718111,0.198709285818252,0.135818670747174,0.175820566594922,0.347501067384749,0.233892526761272,0.253257405772905,0.160129349681849,0.302930694316864,0.124904574245585,0.2350393347387,0.379606912768357,0.259648394241418,0.199748251342631,0.131613996741083,0.193329966169534,0.267514641452074,0.378730392886979,0.244878459266486,0.228493454863278,0.259247930460433,0.303985954771209]}},"geo":"geo","frame":null}],"highlight":{"on":"plotly_click","persistent":false,"dynamic":false,"selectize":false,"opacityDim":0.2,"selected":{"opacity":1},"debounce":0},"shinyEvents":["plotly_hover","plotly_click","plotly_selected","plotly_relayout","plotly_brushed","plotly_brushing","plotly_clickannotation","plotly_doubleclick","plotly_deselect","plotly_afterplot","plotly_sunburstclick"],"base_url":"https://plot.ly"},"evals":[],"jsHooks":[]}</script>
 <p><br> Mississippi and Louisianan have the largest differences in Non-CWD/CWD Grad Rates</p>
 </div>
 </div>
